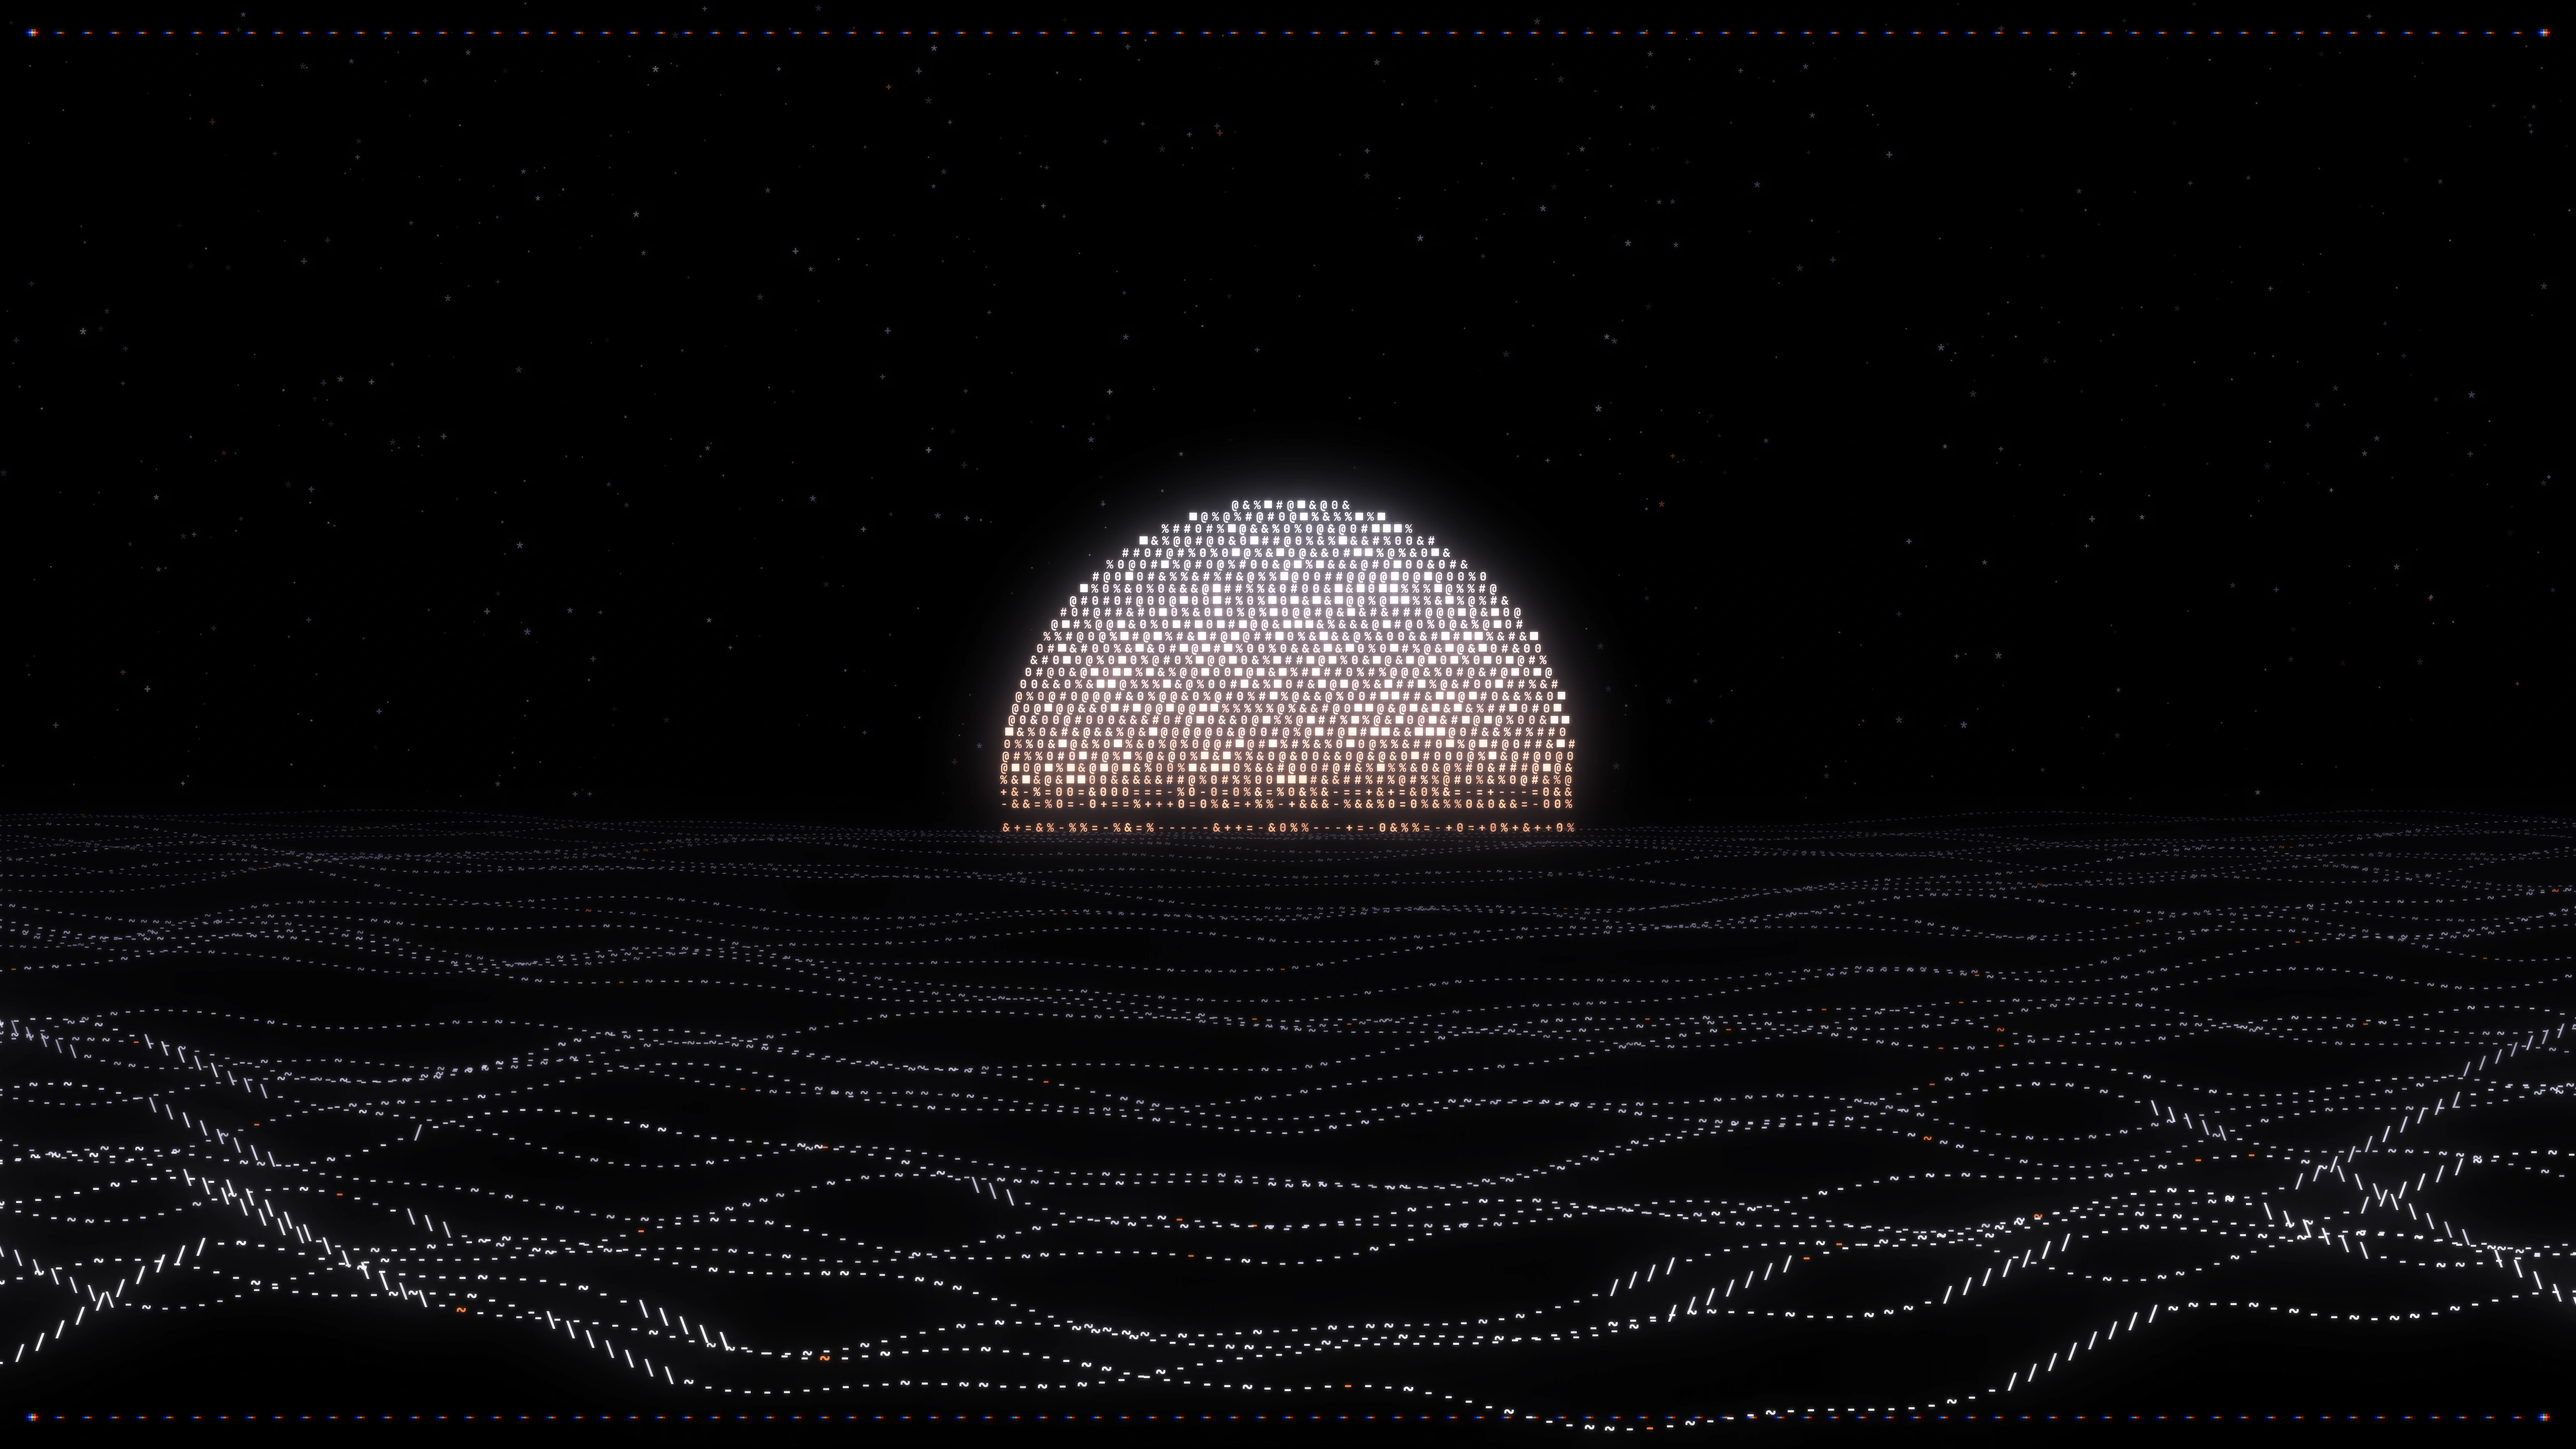
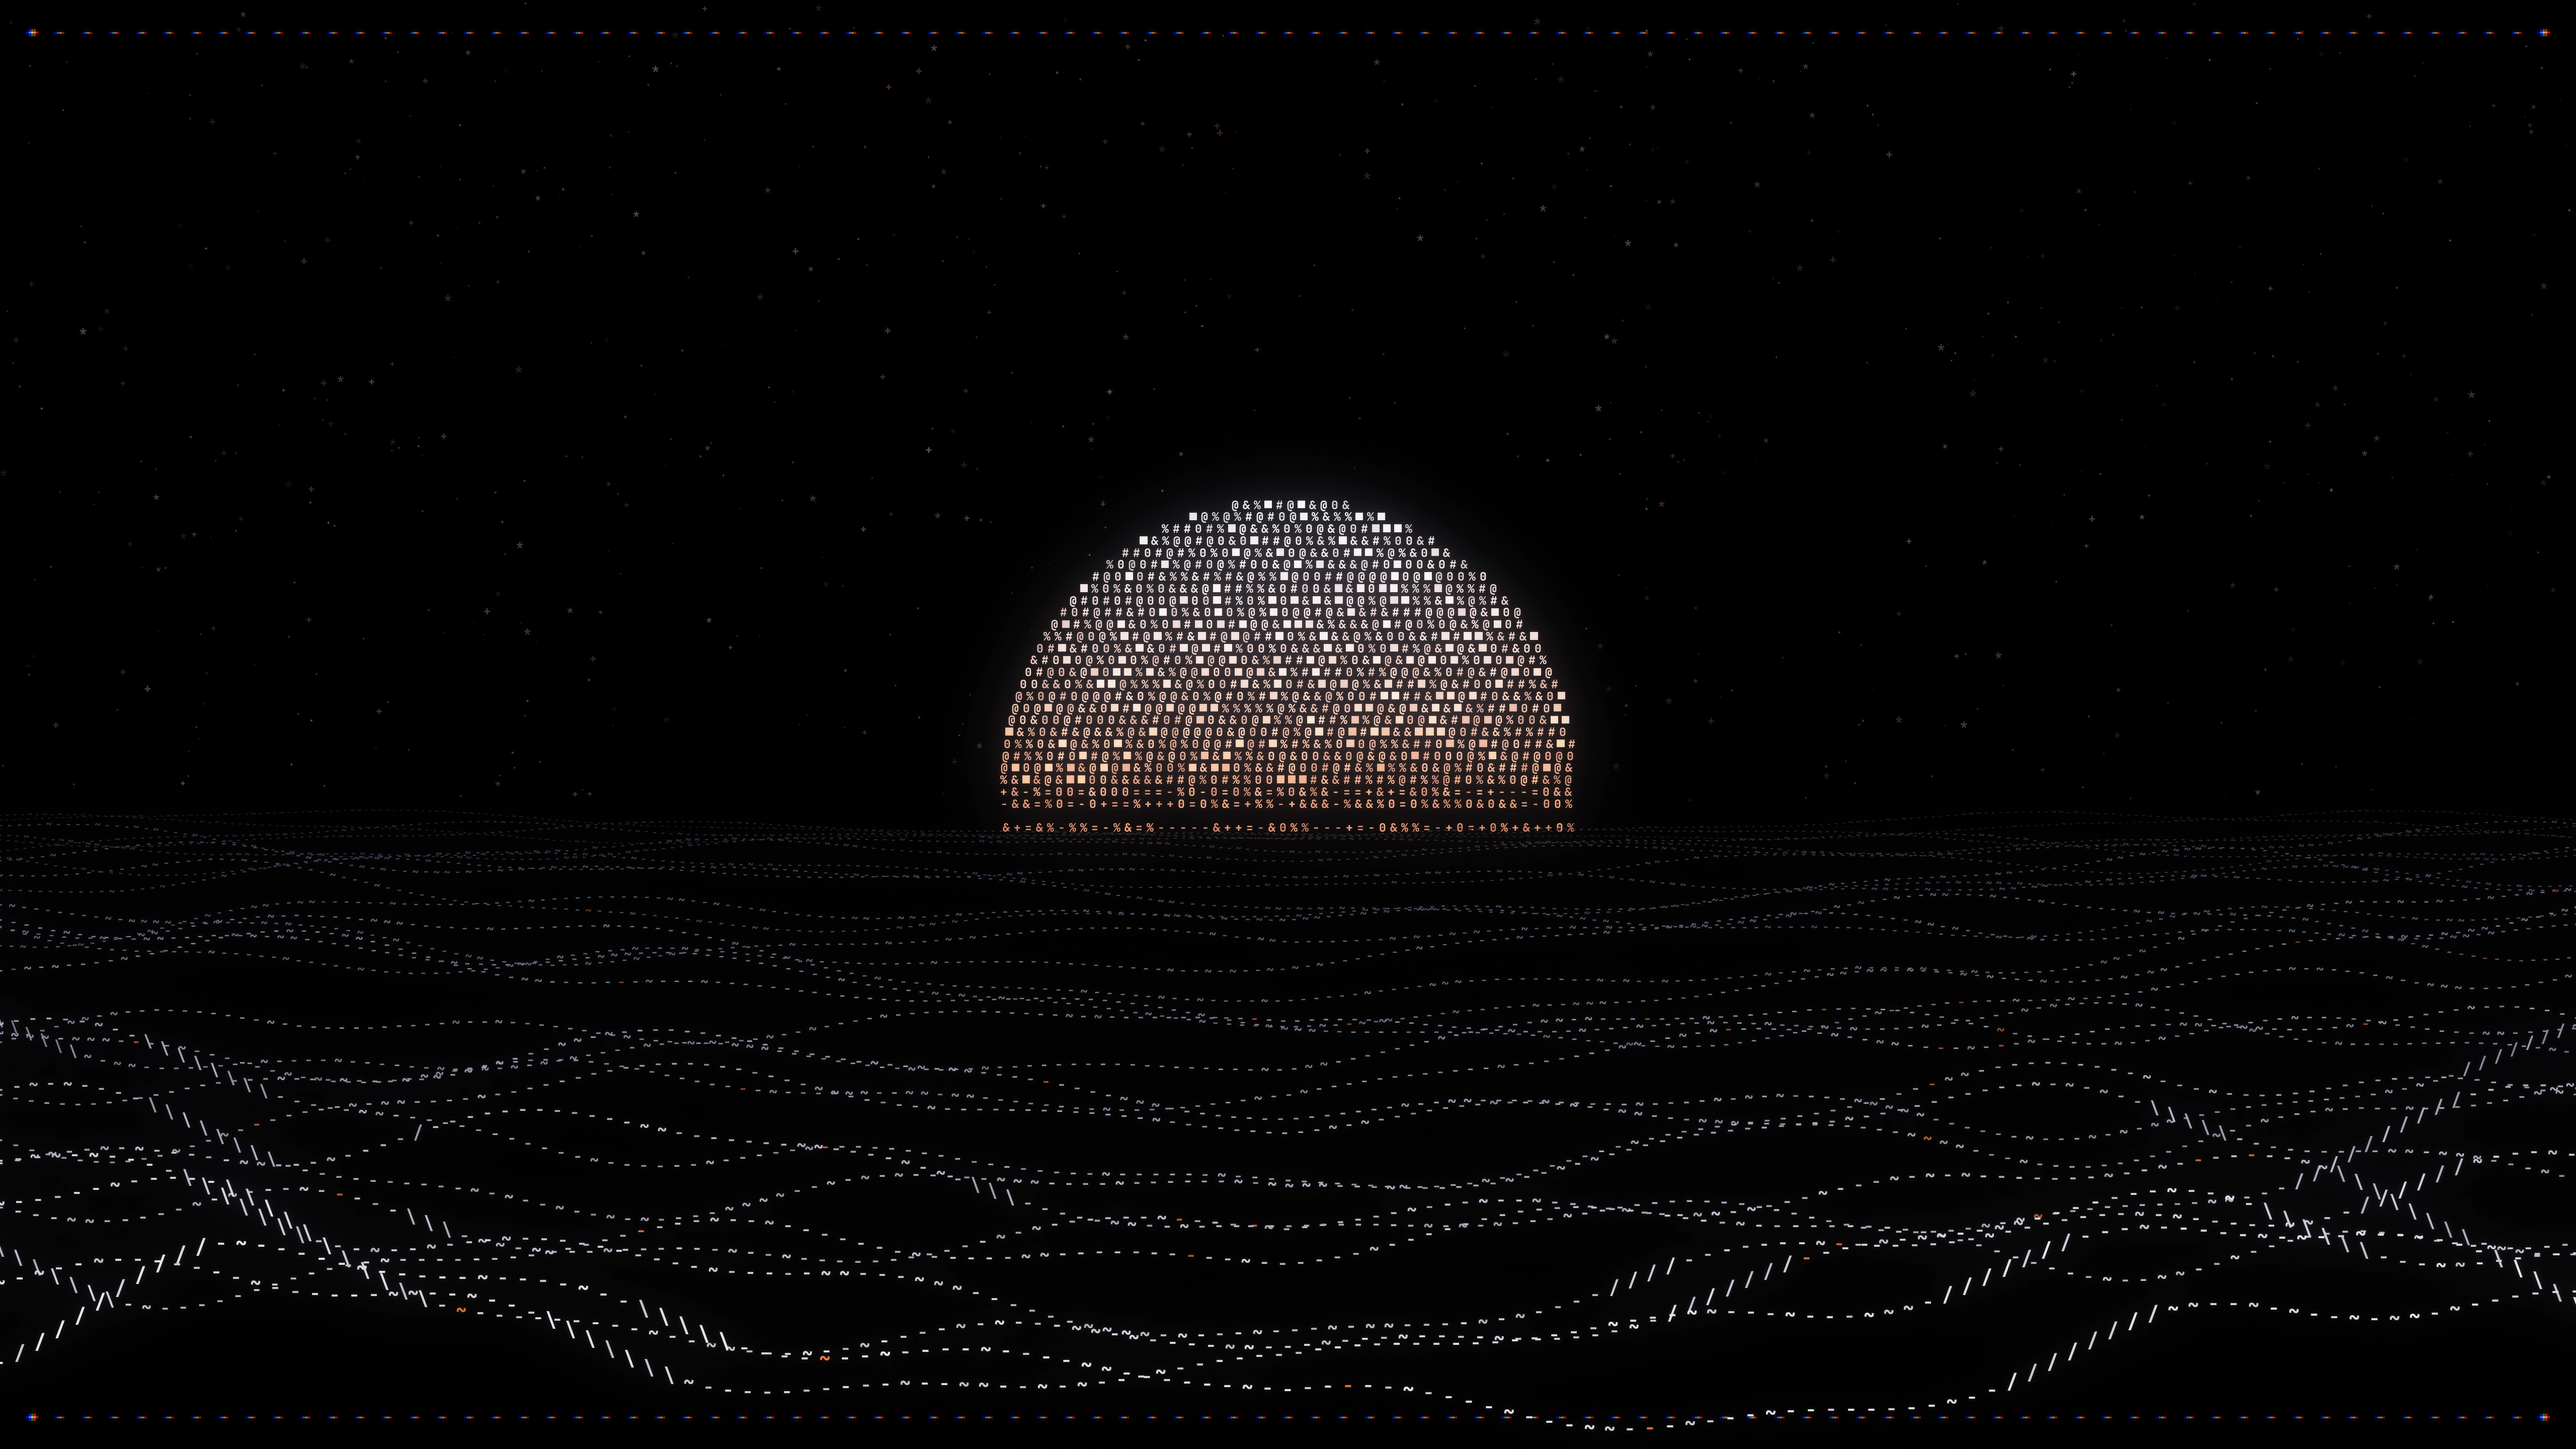
Crisper glyphs: cut the glow to 40% and raise webp quality
Glow strength is now one constant (GLOW = 0.4), adjustable per run with
--glow. The tight halo around each glyph scales down fastest, since that is
what softened the edges.

diff --git a/src/generate.py b/src/generate.py
@@ -40,6 +40,9 @@ ORANGE = (255, 122, 58)
 EMBER = (255, 86, 38)
 DEEP_EMBER = (170, 44, 20)
 HALO = (0.80, 0.78, 1.00)  # tint of the wide glow
+# Overall glow strength. 1.0 was the original soft look; lower is crisper.
+# Override per run with --glow.
+GLOW = 0.4
 FRINGE_SHIFT = 4.6  # chromatic aberration, in units (px at 5K)
 
 # Glyph tiers, from the silhouette edge inwards.
@@ -257,18 +260,19 @@ class Scene:
 
         lum = wide.mean(axis=2, keepdims=True)
         halo_rgb = np.array(halo, dtype=np.float32)
+        k = GLOW
         out = (
-            fog * 0.16 * haze * halo_rgb
-            + (0.55 * wide + 0.9 * lum * halo_rgb) * 1.25 * glow
-            + mid * 0.55 * bloom
-            + tight * 0.6 * bloom
+            fog * 0.16 * haze * halo_rgb * k
+            + (0.55 * wide + 0.9 * lum * halo_rgb) * 1.25 * glow * k
+            + mid * 0.55 * bloom * k
+            + tight * 0.6 * bloom * k ** 1.5  # the tight halo is what softens edges
             + g
         )
 
         # Frame: offset red and blue channels for a chromatic fringe.
         shift = max(1, int(round(u * FRINGE_SHIFT)))
         fglow = np.asarray(self.frame.filter(ImageFilter.GaussianBlur(5 * u)), dtype=np.float32) / 255
-        f = fr + fglow * 0.9
+        f = fr + fglow * 0.9 * GLOW
         fringe = np.zeros_like(f)
         fringe[..., 0] = np.roll(f[..., 0] * 1.1 + f[..., 2] * 0.25, shift, axis=1)
         fringe[..., 1] = f[..., 1] * 0.82
@@ -711,15 +715,19 @@ def make_preview(wall: Image.Image):
 
 
 def main():
+    global GLOW
     ap = argparse.ArgumentParser(description=__doc__, formatter_class=argparse.RawDescriptionHelpFormatter)
     ap.add_argument("--size", default="5120x2880", help="wallpaper size, WxH")
     ap.add_argument("--only", choices=list(WALLPAPERS) + ["extras"], action="append")
     ap.add_argument("--fast", action="store_true", help="cheaper blurs, for iterating")
     ap.add_argument("--out", default=str(ROOT), help="theme root to write into")
     ap.add_argument("--format", default="webp", choices=["webp", "png"])
+    ap.add_argument("--glow", type=float, default=GLOW,
+                    help=f"glow strength, 0 for none (default {GLOW})")
     ap.add_argument("--backgrounds-only", action="store_true",
                     help="write only backgrounds/, skipping the unlock image and previews")
     args = ap.parse_args()
+    GLOW = args.glow
 
     w, h = (int(v) for v in args.size.lower().split("x"))
     out = Path(args.out)
@@ -735,7 +743,7 @@ def main():
         img = fn(w, h, fast=args.fast)
         path = out / "backgrounds" / f"{name}.{args.format}"
         if args.format == "webp":
-            img.save(path, quality=94, method=6)
+            img.save(path, quality=97, method=6)
         else:
             img.save(path, optimize=True)
         if key == "horizon":
